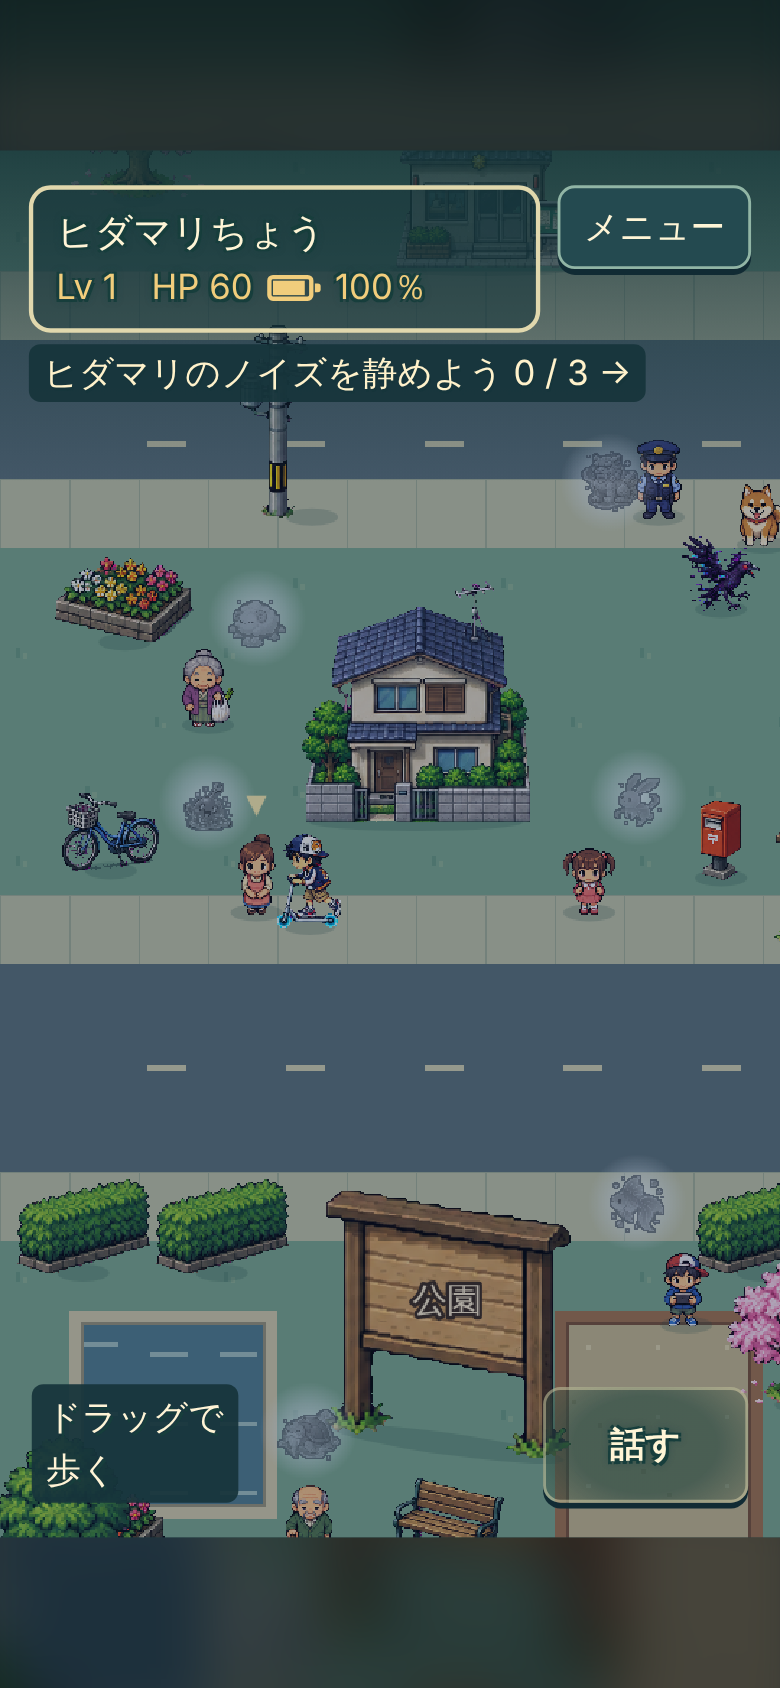
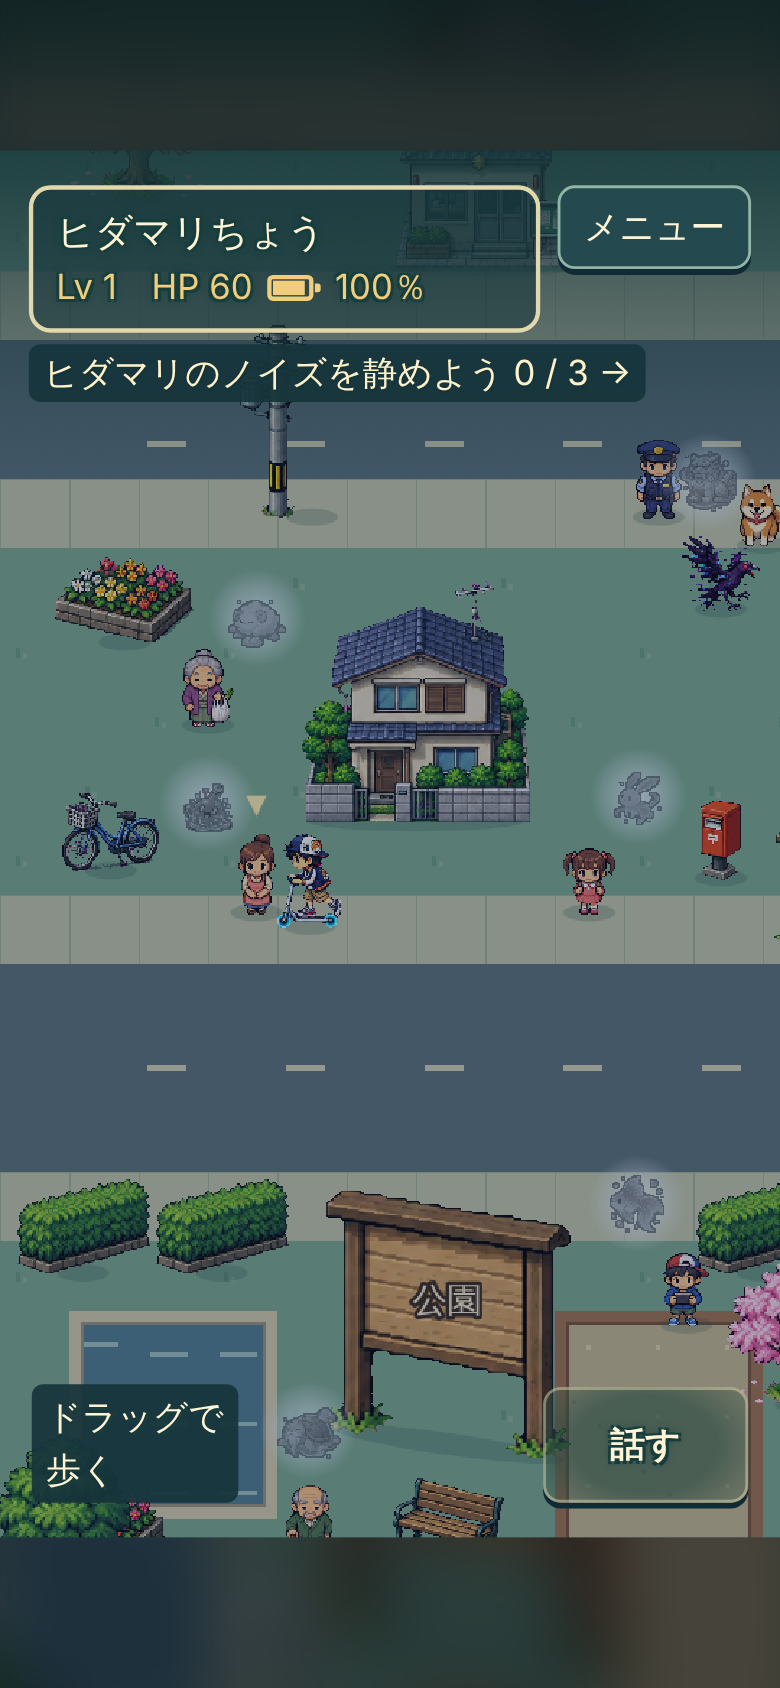
R533: 外の灰色の守護霊を上の目標の帯より下に出した
Claude-Session: https://claude.ai/code/session_012y4xphY5YuG7oKvS5wPoqj

diff --git a/v5/index.html b/v5/index.html
@@ -985,9 +985,10 @@ function drawSpirits(list){spiritsDrawn=[];if(!g.summons.length)return;for(const
 // R244: in the store the clerk stands just under the back wall, so the grey spirit by the head floated on the wallpaper and looked pinned to the wall (desktop-18).
 // Indoors a spirit now stays on the floor: its picture (44px, bobbing 6px) starts under the skirting line at 2 tiles + 10px.
 const SPIRIT_FLOOR_TOP=2*TILE+10+44+6;
-// R533: outside, the policeman's grey spirit by the head sat in the row of the goal strip, right at its 「0/3 ↑」 end, and read as part of the strip (mobile-34).
-// Outside, the spirit (halo 54px over its base, bobbing 6px) now starts under the HUD line (hudTop), sliding down beside the person, but never lower than the feet.
-function spiritBase(o,side){const f=o.foot-(o.raise||0),b=side?f-62:f-o.h-2,m=GAME_DATA.maps[g.map];if(m&&!m.outside)return Math.max(b,SPIRIT_FLOOR_TOP);return Math.min(Math.max(b,camera.y+hudTop+60),Math.max(b,f));}
+// R533: outside, the policeman's grey spirit by the head sat in the row of the goal strip, right at its 「0 / 3 →」 end, and read as part of the strip (mobile-34).
+// Outside, a side spirit (halo 54px over its base, bobbing 6px) now starts under the HUD line (hudTop), sliding down beside the person, but never lower than the feet.
+// A spirit over the head (side 0) is not moved, as it would land on the person's own face. raw (used by spiritSide) skips the move, so the side does not change while the camera scrolls.
+function spiritBase(o,side,raw){const f=o.foot-(o.raise||0),b=side?f-62:f-o.h-2,m=GAME_DATA.maps[g.map];if(m&&!m.outside)return Math.max(b,SPIRIT_FLOOR_TOP);return raw||!side?b:Math.min(Math.max(b,camera.y+hudTop+60),Math.max(b,f));}
 // R245: after R244 the store clerk's side spirit came down onto the right end of the counter in front of the clerk and read as a thing standing on it (mobile-18).
 // Indoors a side spirit that would sit on a thing standing in front of the person slides sideways past that thing's drawn edge.
 // spiritSide weighs each side where it ends up after the slide, and a side that slides more than 72px from the person (far from whose spirit it is) is not used while the other side stays near.
@@ -995,7 +996,7 @@ function spiritX(o,side,list){let x=o.x*TILE+34*side;const m=GAME_DATA.maps[g.ma
  for(const b of list){if(b===o||b.floor||b.kind==='enemies'||b.id==='hero'||isPerson(b.kind)||b.kind==='numberperson'||!(b.foot>o.foot))continue;const d=dimensions(b),bh=d.h*(1-(frameFor(b.kind,b.frame)?.top??0)),top=b.foot-bh,bx=b.x*TILE;
   if(Math.min(x+22,bx+d.w/2)>Math.max(x-22,bx-d.w/2)&&Math.min(y,top+bh)>Math.max(y-44,top))x=side>0?bx+d.w/2+22:bx-d.w/2-22;}
  return x;}
-function spiritSide(o,list){const m=GAME_DATA.maps[g.map],cover=(sx,y)=>{let n=0;if(m?.tiles)for(let ty=Math.floor((y-44)/TILE);ty<=Math.floor(y/TILE);ty++)for(let tx=Math.floor((sx-22)/TILE);tx<=Math.floor((sx+22)/TILE);tx++)if(m.tiles[ty]?.[tx]==='~'){const ox=Math.min(sx+22,(tx+1)*TILE)-Math.max(sx-22,tx*TILE),oy=Math.min(y,(ty+1)*TILE)-Math.max(y-44,ty*TILE);if(ox>0&&oy>0)n+=ox*oy;}for(const b of list){if(b===o||b.kind==='enemies')continue;const who=b.id==='hero'||isPerson(b.kind)||b.kind==='numberperson';let bw=b.w,bh=b.h,top=b.foot-(b.lift||0)-(b.raise||0)-b.h;if(!who){const d=dimensions(b);bw=d.w;bh=d.h*(1-(frameFor(b.kind,b.frame)?.top??0));top=b.foot-bh;}const bx=b.x*TILE,ox=Math.min(sx+22,bx+bw/2)-Math.max(sx-22,bx-bw/2),oy=Math.min(y,top+bh)-Math.max(y-44,top);if(ox>0&&oy>0)n+=ox*oy*(b.id==='hero'?2:who?1:.5);}return n;};const lx=spiritX(o,-1,list),rx=spiritX(o,1,list),far=x=>Math.abs(x-o.x*TILE)>72,off=x=>x-22<camera.x||x+22>camera.x+W;if(off(lx)!==off(rx))return off(lx)?1:-1;if(far(lx)!==far(rx))return far(lx)?1:-1;const l=cover(lx,spiritBase(o,-1)),r=cover(rx,spiritBase(o,1)),side=l<r?-1:1,best=Math.min(l,r);return best>0&&cover(o.x*TILE,spiritBase(o,0))<best?0:side;}
+function spiritSide(o,list){const m=GAME_DATA.maps[g.map],cover=(sx,y)=>{let n=0;if(m?.tiles)for(let ty=Math.floor((y-44)/TILE);ty<=Math.floor(y/TILE);ty++)for(let tx=Math.floor((sx-22)/TILE);tx<=Math.floor((sx+22)/TILE);tx++)if(m.tiles[ty]?.[tx]==='~'){const ox=Math.min(sx+22,(tx+1)*TILE)-Math.max(sx-22,tx*TILE),oy=Math.min(y,(ty+1)*TILE)-Math.max(y-44,ty*TILE);if(ox>0&&oy>0)n+=ox*oy;}for(const b of list){if(b===o||b.kind==='enemies')continue;const who=b.id==='hero'||isPerson(b.kind)||b.kind==='numberperson';let bw=b.w,bh=b.h,top=b.foot-(b.lift||0)-(b.raise||0)-b.h;if(!who){const d=dimensions(b);bw=d.w;bh=d.h*(1-(frameFor(b.kind,b.frame)?.top??0));top=b.foot-bh;}const bx=b.x*TILE,ox=Math.min(sx+22,bx+bw/2)-Math.max(sx-22,bx-bw/2),oy=Math.min(y,top+bh)-Math.max(y-44,top);if(ox>0&&oy>0)n+=ox*oy*(b.id==='hero'?2:who?1:.5);}return n;};const lx=spiritX(o,-1,list),rx=spiritX(o,1,list),far=x=>Math.abs(x-o.x*TILE)>72,off=x=>x-22<camera.x||x+22>camera.x+W;if(off(lx)!==off(rx))return off(lx)?1:-1;if(far(lx)!==far(rx))return far(lx)?1:-1;const l=cover(lx,spiritBase(o,-1,1)),r=cover(rx,spiritBase(o,1,1)),side=l<r?-1:1,best=Math.min(l,r);return best>0&&cover(o.x*TILE,spiritBase(o,0,1))<best?0:side;}
 // R276: name under the battle orb, so players see it is their AI partner and not a leftover light.
 function soraTag(n){ctx.font="24px 'Hiragino Sans',system-ui,sans-serif";ctx.textAlign='center';const x=Math.min(SORA_BATTLE_X,540-ctx.measureText(n).width/2-10),y=SORA_BATTLE_Y+34;ctx.lineJoin='round';ctx.lineWidth=5;ctx.strokeStyle='rgba(6,10,24,.85)';ctx.strokeText(n,x,y);ctx.fillStyle='#d8f5ef';ctx.fillText(n,x,y);}
 function drawSora(x,y,r){const glow=ctx.createRadialGradient(x,y,0,x,y,r*2);glow.addColorStop(0,'#bce6dd');glow.addColorStop(.3,'#7fcad6aa');glow.addColorStop(1,'#7fcad600');ctx.fillStyle=glow;ctx.fillRect(x-r*2,y-r*2,r*4,r*4);ellipse(x,y,r*.25,r*.25,'#efffe1');}

diff --git a/autodev/ROADMAP.md b/autodev/ROADMAP.md
@@ -538,7 +538,7 @@
 - [x] R530 | 地図の上の札で、電池の絵の出っ張りが「100％」の字に付いて見えたので、絵の後ろを絵の前と同じだけ空けた | tools/smoke_v5.cjs で全章を通し、スクショを確認役に見せて気になる所を挙げさせ、一番大きい1つを直す。直した所の前と後のスクショがある
 - [x] R531 | 小さい画面で Lv が2けたになると、上の札の「100％」が枠を越えていたので、はみ出す時だけ字を27pxにして枠に収めた | tools/smoke_v5.cjs で全章を通し、スクショを確認役に見せて気になる所を挙げさせ、一番大きい1つを直す。直した所の前と後のスクショがある
 - [x] R532 | スマホで町のノイズの砂嵐の帯が、上の目標の帯の下の縁に付いて表示が壊れて見えたので、帯を目標の帯から離して出した | tools/smoke_v5.cjs で全章を通し、スクショを確認役に見せて気になる所を挙げさせ、一番大きい1つを直す。直した所の前と後のスクショがある
-- [ ] R533 | 遊んで一番気になる所を1つ直す | tools/smoke_v5.cjs で全章を通し、スクショを確認役に見せて気になる所を挙げさせ、一番大きい1つを直す。直した所の前と後のスクショがある
+- [x] R533 | 1章の町で、おまわりさんの灰色の守護霊が上の目標の帯の右端に並んで帯の一部に見えたので、外の守護霊を帯より下に出した | tools/smoke_v5.cjs で全章を通し、スクショを確認役に見せて気になる所を挙げさせ、一番大きい1つを直す。直した所の前と後のスクショがある
 ## くりかえし
 
 「つぎにやること」に `- [ ]` が無くなったら、次の型を新しい R番号で末尾に足して、それをする。

diff --git a/autodev/last_run.md b/autodev/last_run.md
@@ -1,5 +1,5 @@
-- スマホで町のノイズの帯が、上の目標の帯の下の縁に付いていた
-- 帯を出す高さの下限を、上の表示の下から18px離した
-- 前と後のスクショを docs/shots/R532 に置き、テストを足した
-次: 灰色の守護霊が町のノイズや人の頭と重なって見える所を見る
-時刻: 2026-11-13 17:31
+- 1章の町で、灰色の守護霊が上の目標の帯の右端に並んでいた
+- 外の守護霊を、上の表示の線より下に出すようにした（足元より下へは下げない）
+- 前と後のスクショを docs/shots/R533 に置き、テストを足した
+次: 話す・調べるボタンが右下の敵や人を隠す所を見る（鍵ブランチへの push は許可が無く、今回は鍵を取らずに動いた）
+時刻: 2026-11-13 18:39
